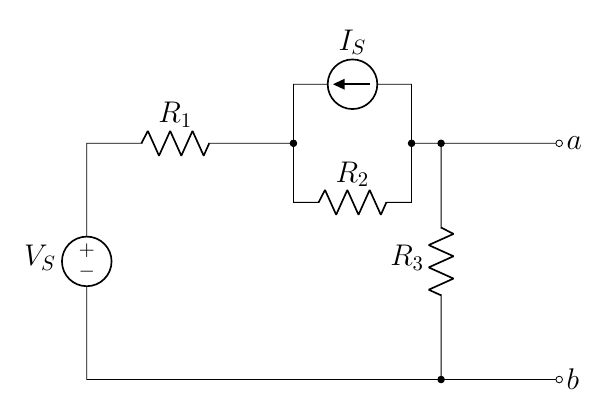
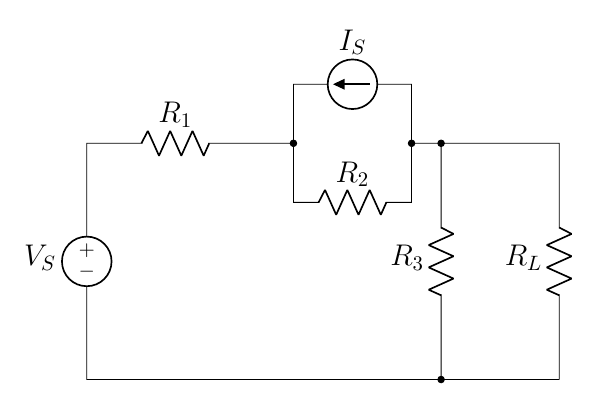
edit 4.37

Changed region(s): [[0.0303, 0.0594, 0.9697, 0.9505], [0.8485, 0.5941, 0.9697, 0.7129], [0.9091, 0.7129, 0.9394, 0.7426]]

diff --git a/1.8 Thevinin and Norton/4.5-4.6 Thevenin Norton/4.37(new).tex b/1.8 Thevinin and Norton/4.5-4.6 Thevenin Norton/4.37(new).tex
@@ -3,8 +3,8 @@
 \begin{circuitikz}[american,cute inductors]
     \input{../../preamble2.tex}
 
-    \draw(0,0) node[anchor=west]{$b$}
-        to[short, o-*] ++(-2,0)
+    \draw(0,0)
+        to[short, -*] ++(-2,0)
         to[short] ++(-6,0)
         to[V,l=\vsname{}] ++(0,4)
         to[R,l=\rname{1}] ++(3,0)
@@ -16,7 +16,8 @@
         to[short] ++(0,-1) ++(2,0)
         to[short,*-] ++(0.5,0)
         to[R,l_=\rname{3}] ++(0,-4) ++(0,4)
-        to[short, *-o] ++(2,0) node[anchor=west]{$a$};
+        to[short, *-] ++(2,0)
+        to[R,l_=\rname{L}] (0,0);
 
     %%% find %%%
     % node[anchor=west]{$a$}
